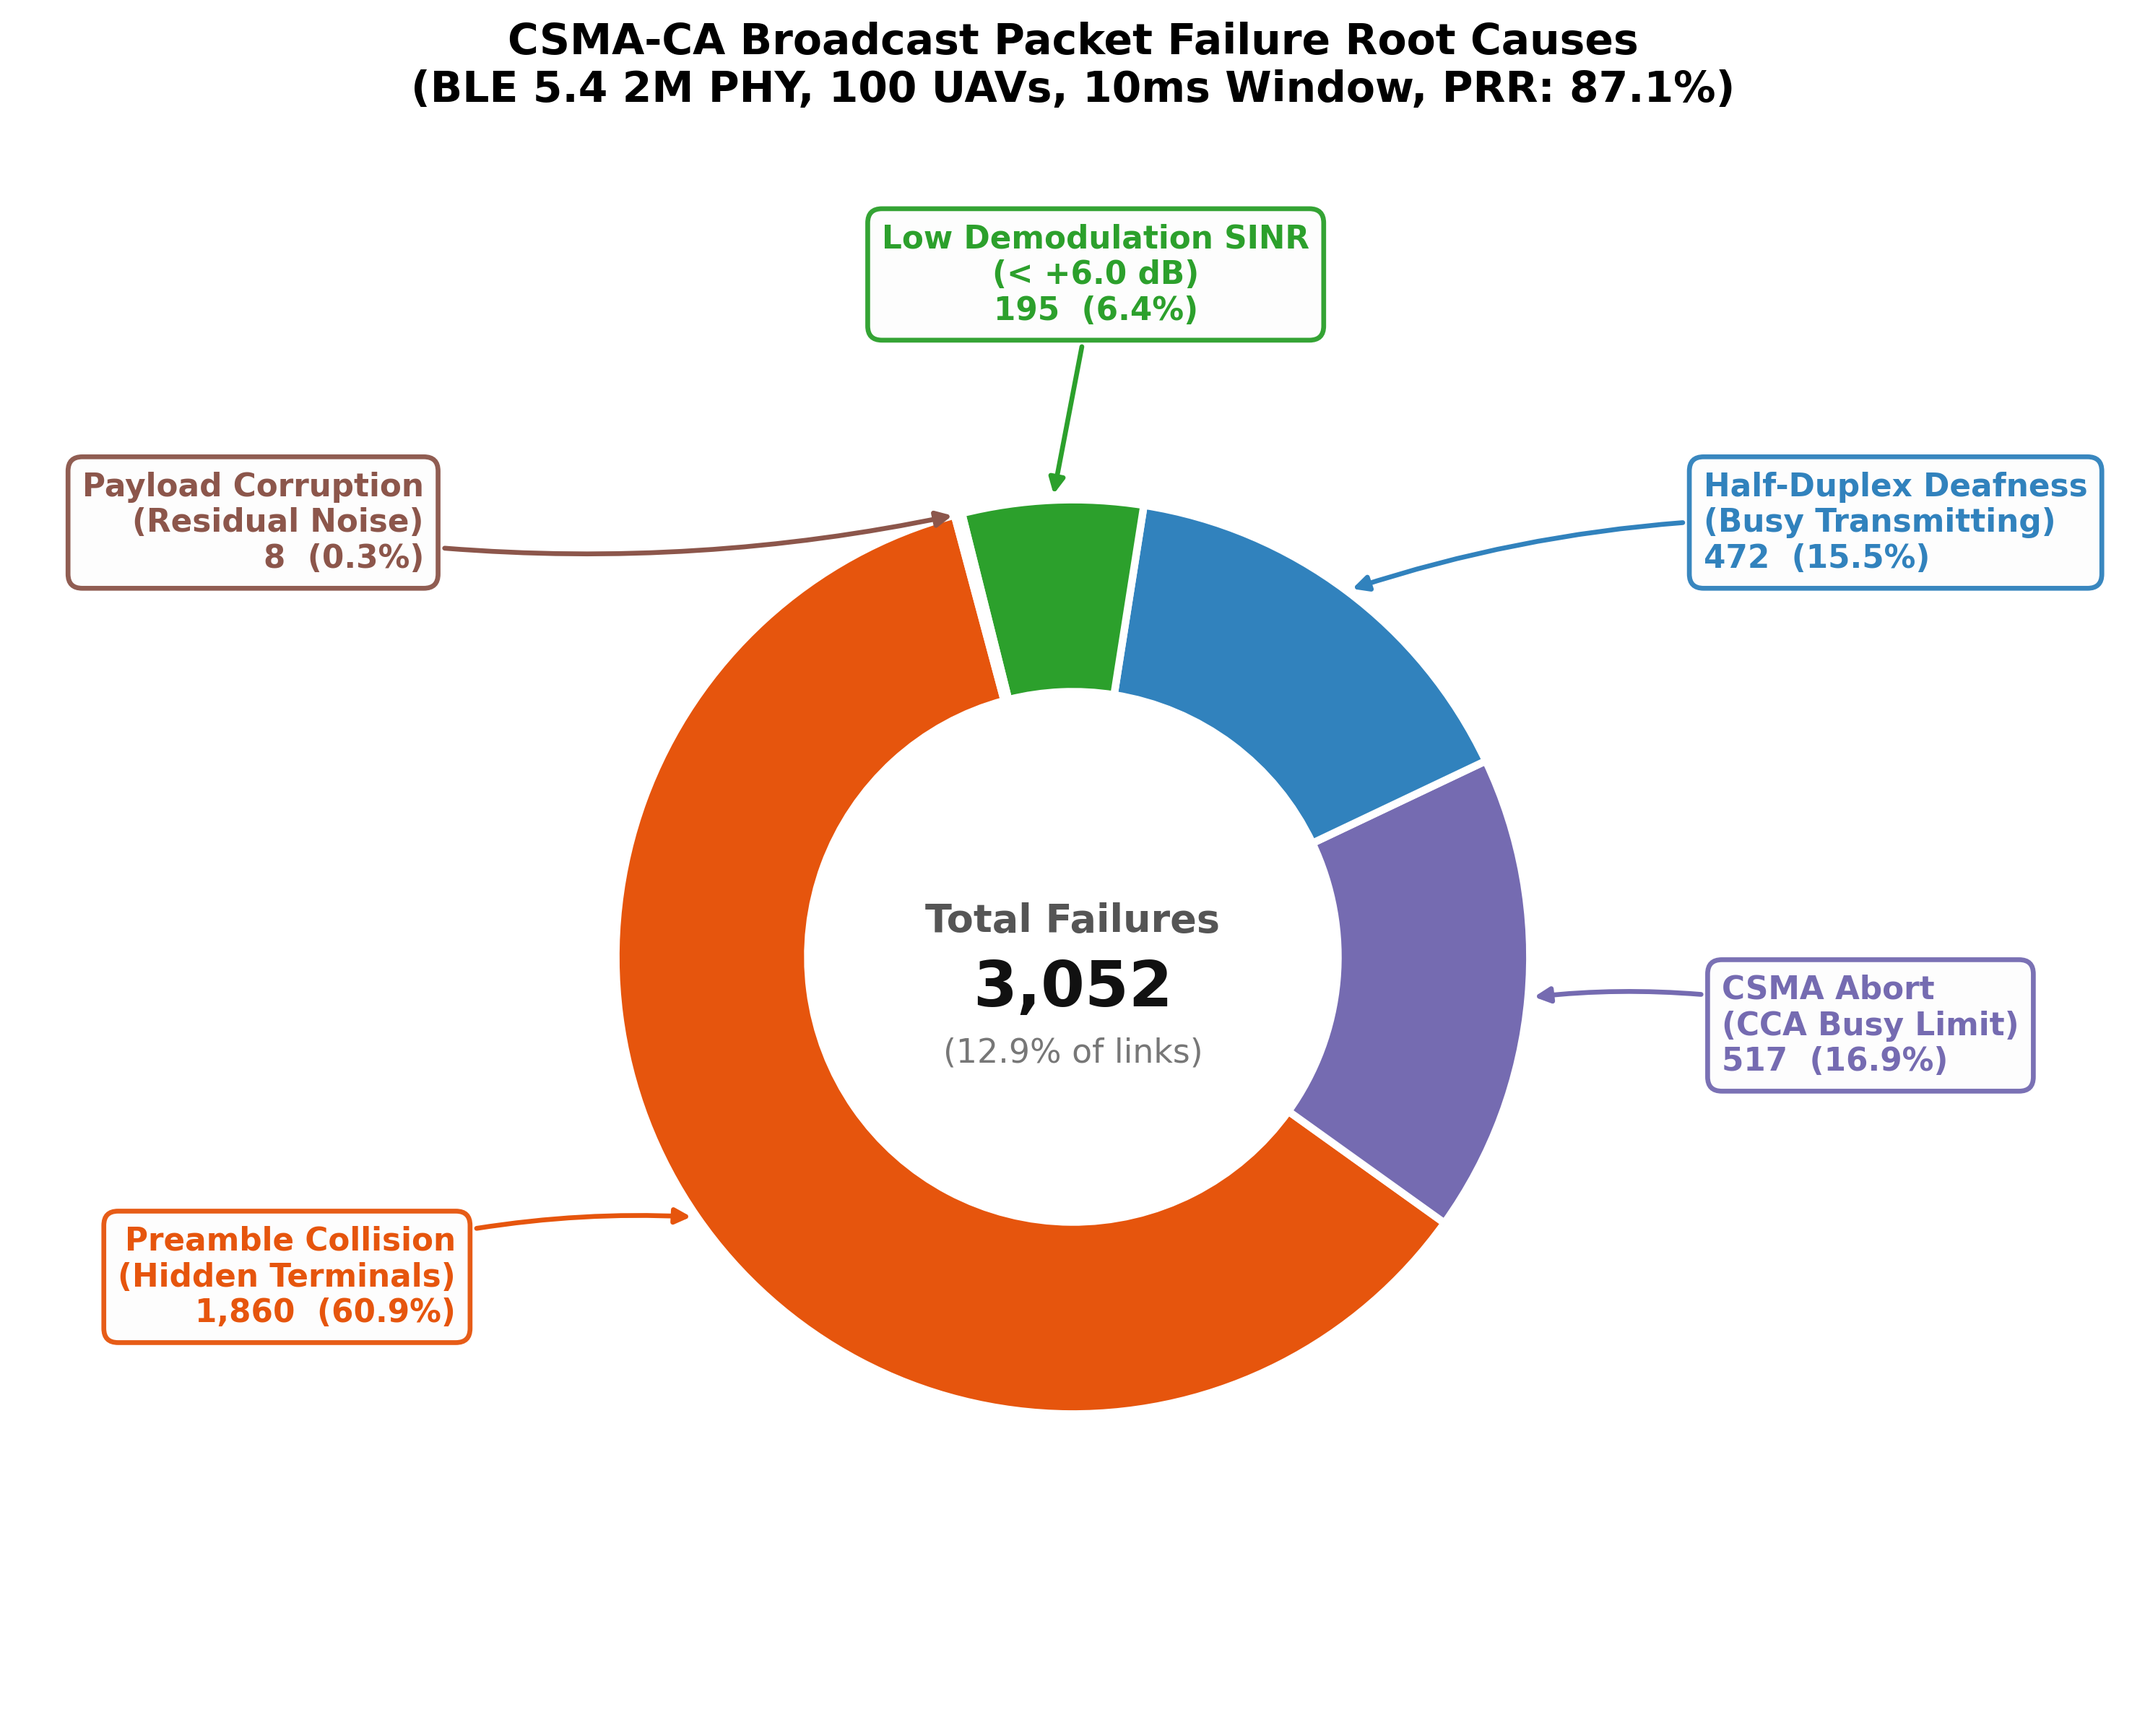
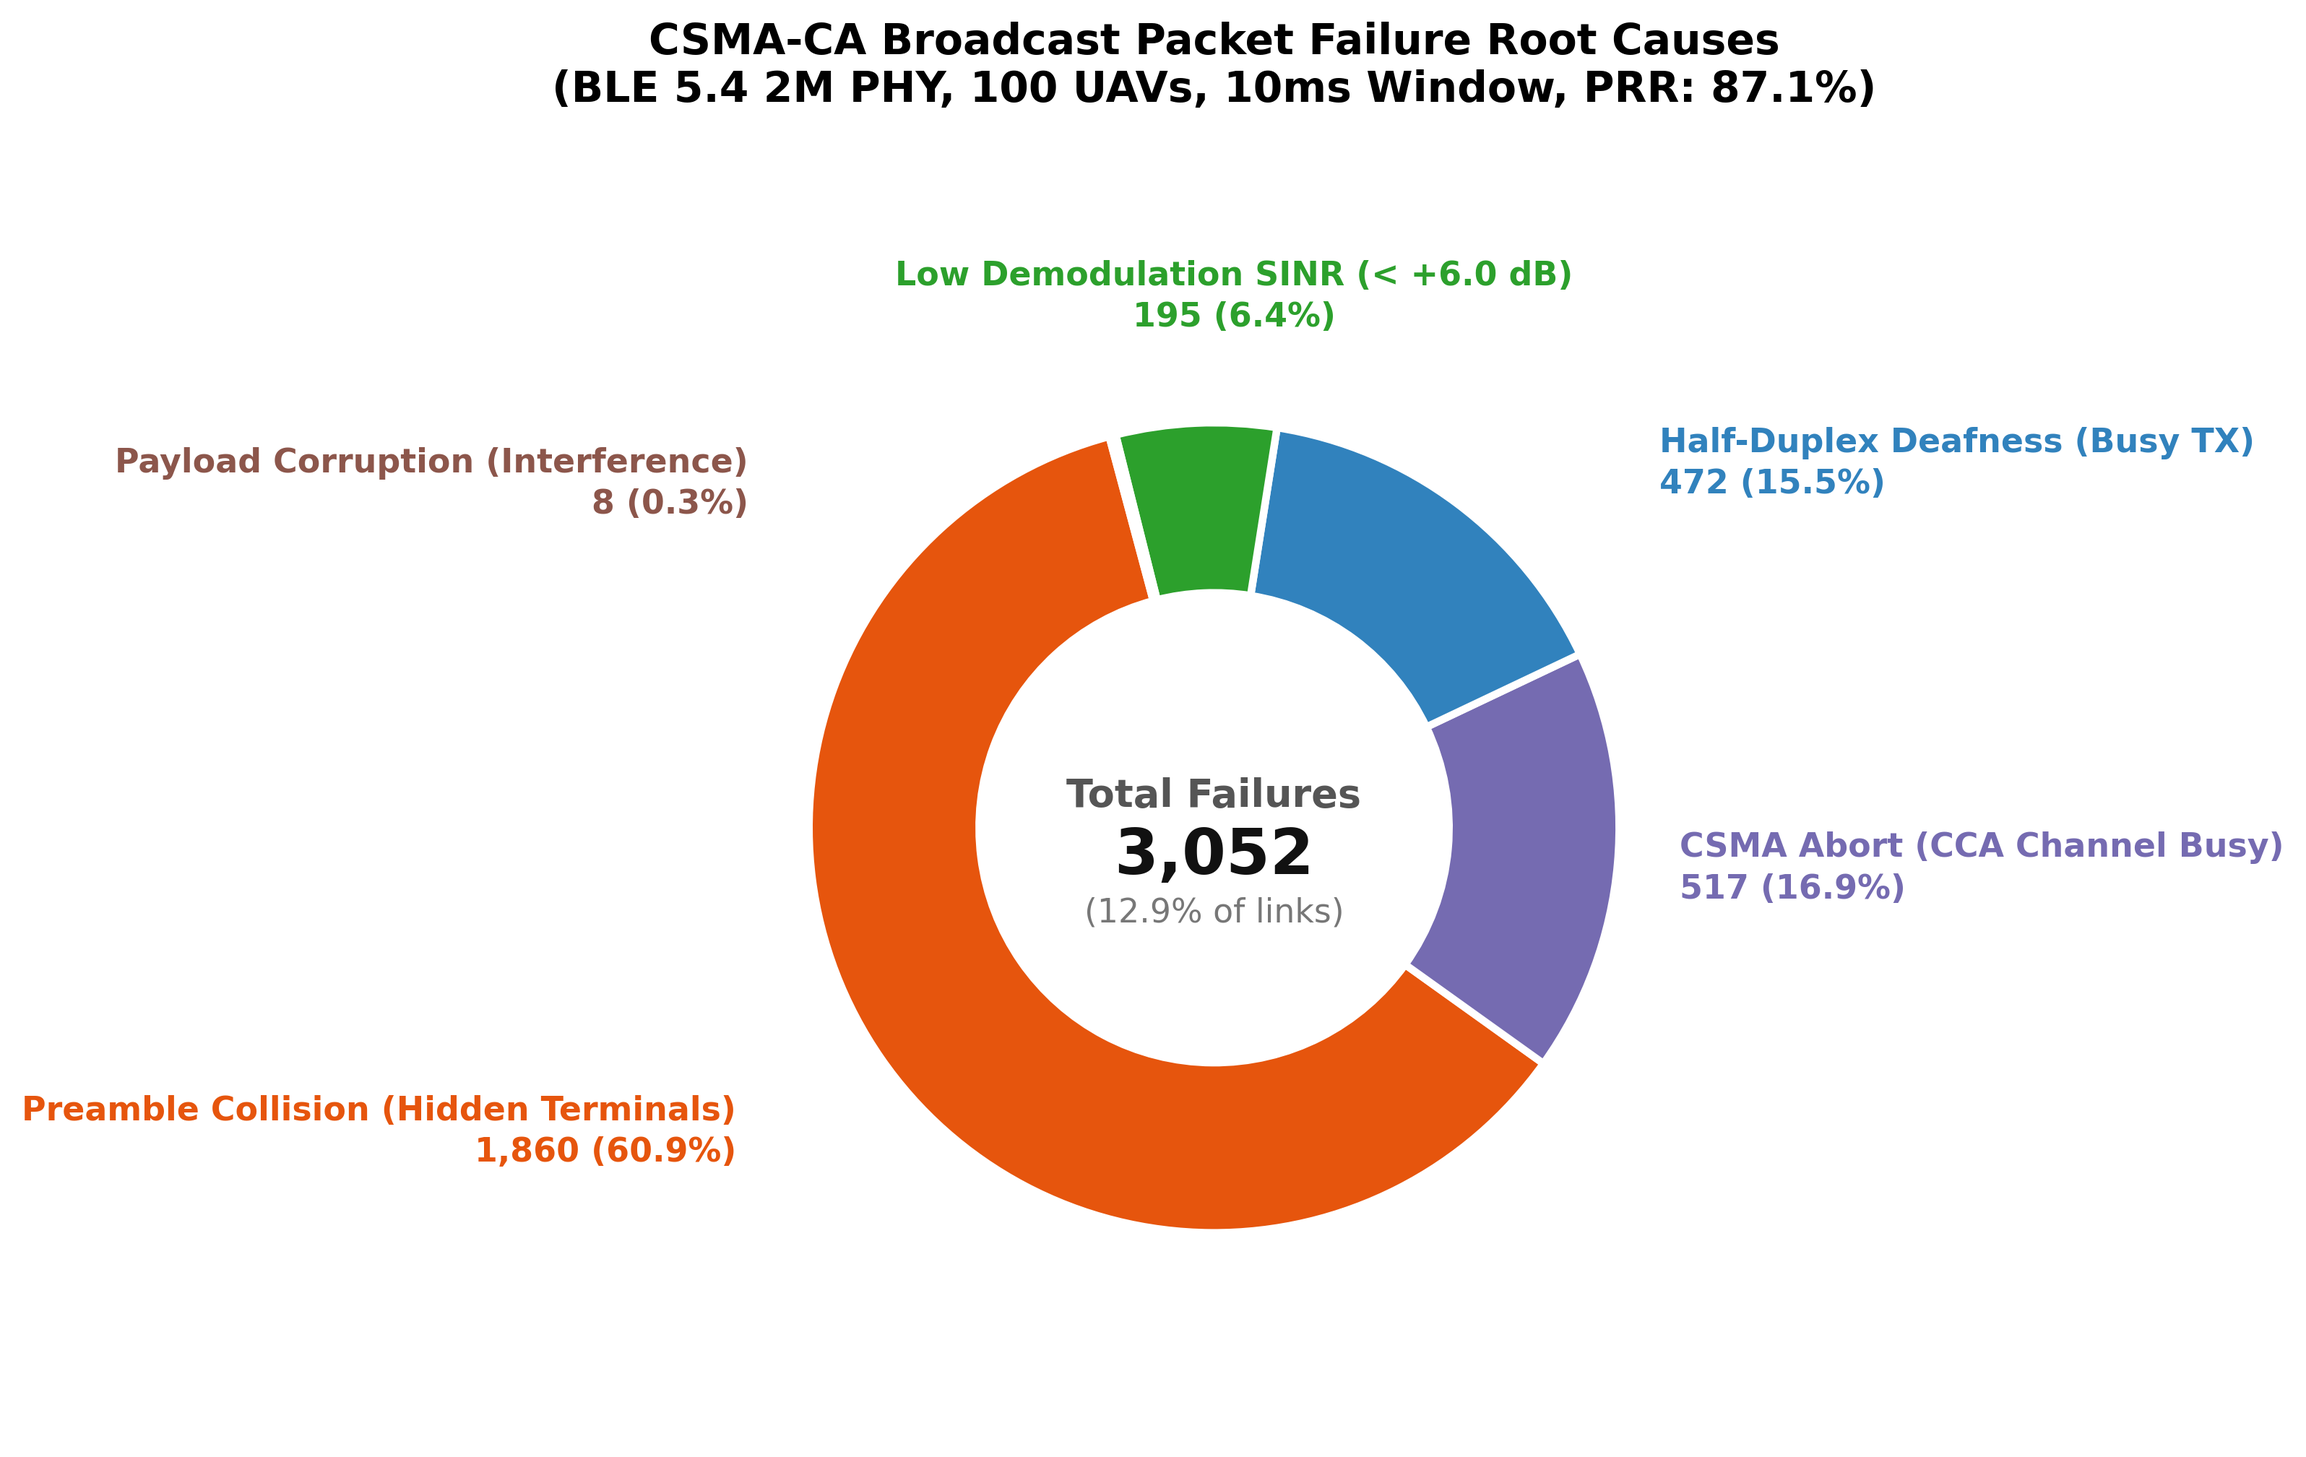
style: remove arrows, place failure cause text directly beside pie wedges

diff --git a/plot_failure_pie.py b/plot_failure_pie.py
@@ -1,7 +1,7 @@
 #!/usr/bin/env python3
 """
-Publication-Quality Donut/Pie Chart with Direct Callout Labels Beside Wedges.
-No separate legend box. Direct pointers from wedges to text labels.
+Publication-Quality Donut/Pie Chart with Text Cleanly Placed Beside Wedges.
+NO arrows, NO bounding boxes, NO legend box.
 Physical Layer: BLE 5.4 2M PHY, 100 UAVs, 10ms window duration.
 """
 
@@ -16,11 +16,11 @@ PROJECT_DIR = os.path.dirname(os.path.abspath(__file__))
 # Data for 10ms Phase 1 CSMA-CA Broadcast (BLE 5.4 2M PHY, 100 UAVs)
 # Total links = 23,674, Delivered = 20,622 (87.1%), Dropped = 3,052 (12.9%)
 labels = [
-    "Preamble Collision\n(Hidden Terminals)",
-    "CSMA Abort\n(CCA Busy Limit)",
-    "Half-Duplex Deafness\n(Busy Transmitting)",
-    "Low Demodulation SINR\n(< +6.0 dB)",
-    "Payload Corruption\n(Residual Noise)"
+    "Preamble Collision (Hidden Terminals)\n1,860 (60.9%)",
+    "CSMA Abort (CCA Channel Busy)\n517 (16.9%)",
+    "Half-Duplex Deafness (Busy TX)\n472 (15.5%)",
+    "Low Demodulation SINR (< +6.0 dB)\n195 (6.4%)",
+    "Payload Corruption (Interference)\n8 (0.3%)"
 ]
 counts = [1860, 517, 472, 195, 8]
 total_drops = sum(counts)
@@ -31,7 +31,7 @@ colors = ['#e6550d', '#756bb1', '#3182bd', '#2ca02c', '#8c564b']
 plt.rcParams['font.family'] = 'DejaVu Sans'
 plt.rcParams['font.size'] = 11
 
-fig, ax = plt.subplots(figsize=(11, 8), dpi=300)
+fig, ax = plt.subplots(figsize=(11, 7.5), dpi=300)
 
 # Create donut pie chart
 wedges, _ = ax.pie(
@@ -46,45 +46,27 @@ ax.text(0, 0.08, 'Total Failures', ha='center', va='center', fontsize=13, fontwe
 ax.text(0, -0.07, f'{total_drops:,}', ha='center', va='center', fontsize=21, fontweight='bold', color='#111111')
 ax.text(0, -0.21, '(12.9% of links)', ha='center', va='center', fontsize=11, color='#777777')
 
-# Direct callout labels beside the wedges with connector lines
-# Explicitly configured positions for clean readability
-text_coords = [
-    # (x_text, y_text, ha, va, rad)
-    (-1.35, -0.70, 'right', 'center', -0.1), # Collision (bottom-left)
-    (1.42, -0.15, 'left', 'center', 0.1),    # Abort (right)
-    (1.38, 0.95, 'left', 'center', 0.1),     # Deafness (top-right)
-    (0.05, 1.38, 'center', 'bottom', 0.0),   # Low SINR (top)
-    (-1.42, 0.95, 'right', 'center', 0.1)    # Corruption (top-left)
+# Direct text placed neatly beside each wedge (NO arrows, NO boxes)
+# Coordinates tuned for visual balance around the pie
+text_positions = [
+    # (x, y, ha, va)
+    (-1.18, -0.75, 'right', 'center'),   # Collision (bottom-left)
+    (1.15, -0.10, 'left', 'center'),     # Abort (right)
+    (1.10, 0.90, 'left', 'center'),      # Deafness (top-right)
+    (0.05, 1.22, 'center', 'bottom'),    # Low SINR (top)
+    (-1.15, 0.85, 'right', 'center')     # Corruption (top-left)
 ]
 
-for i, p in enumerate(wedges):
-    ang = (p.theta2 - p.theta1) / 2.0 + p.theta1
-    ang_rad = np.deg2rad(ang)
-    
-    # Point on outer edge of wedge
-    x_edge = np.cos(ang_rad)
-    y_edge = np.sin(ang_rad)
-    
-    x_text, y_text, ha, va, rad = text_coords[i]
-    label_text = f"{labels[i]}\n{counts[i]:,}  ({pcts[i]:.1f}%)"
-    
-    # Draw callout line and text box
-    ax.annotate(
-        label_text,
-        xy=(x_edge, y_edge),
-        xytext=(x_text, y_text),
-        fontsize=10.5,
+for i, (x, y, ha, va) in enumerate(text_positions):
+    ax.text(
+        x, y,
+        labels[i],
+        fontsize=11,
         fontweight='bold',
         color=colors[i],
         ha=ha,
         va=va,
-        bbox=dict(boxstyle="round,pad=0.45", fc="#fdfdfd", ec=colors[i], lw=1.6, alpha=0.96),
-        arrowprops=dict(
-            arrowstyle="-|>",
-            color=colors[i],
-            lw=1.6,
-            connectionstyle=f"arc3,rad={rad}"
-        )
+        linespacing=1.35
     )
 
 ax.set_title(
@@ -94,8 +76,8 @@ ax.set_title(
     pad=26
 )
 
-ax.set_xlim(-2.3, 2.3)
-ax.set_ylim(-1.6, 1.7)
+ax.set_xlim(-2.4, 2.4)
+ax.set_ylim(-1.5, 1.6)
 ax.axis('off')
 
 plt.tight_layout()
@@ -104,4 +86,4 @@ out_path = os.path.join(PROJECT_DIR, "csma_failure_pie_chart.png")
 plt.savefig(out_path, bbox_inches='tight')
 plt.close()
 
-print(f"✅ Clean direct-callout pie chart saved to: {out_path}")
+print(f"✅ Clean text-beside pie chart saved to: {out_path}")
